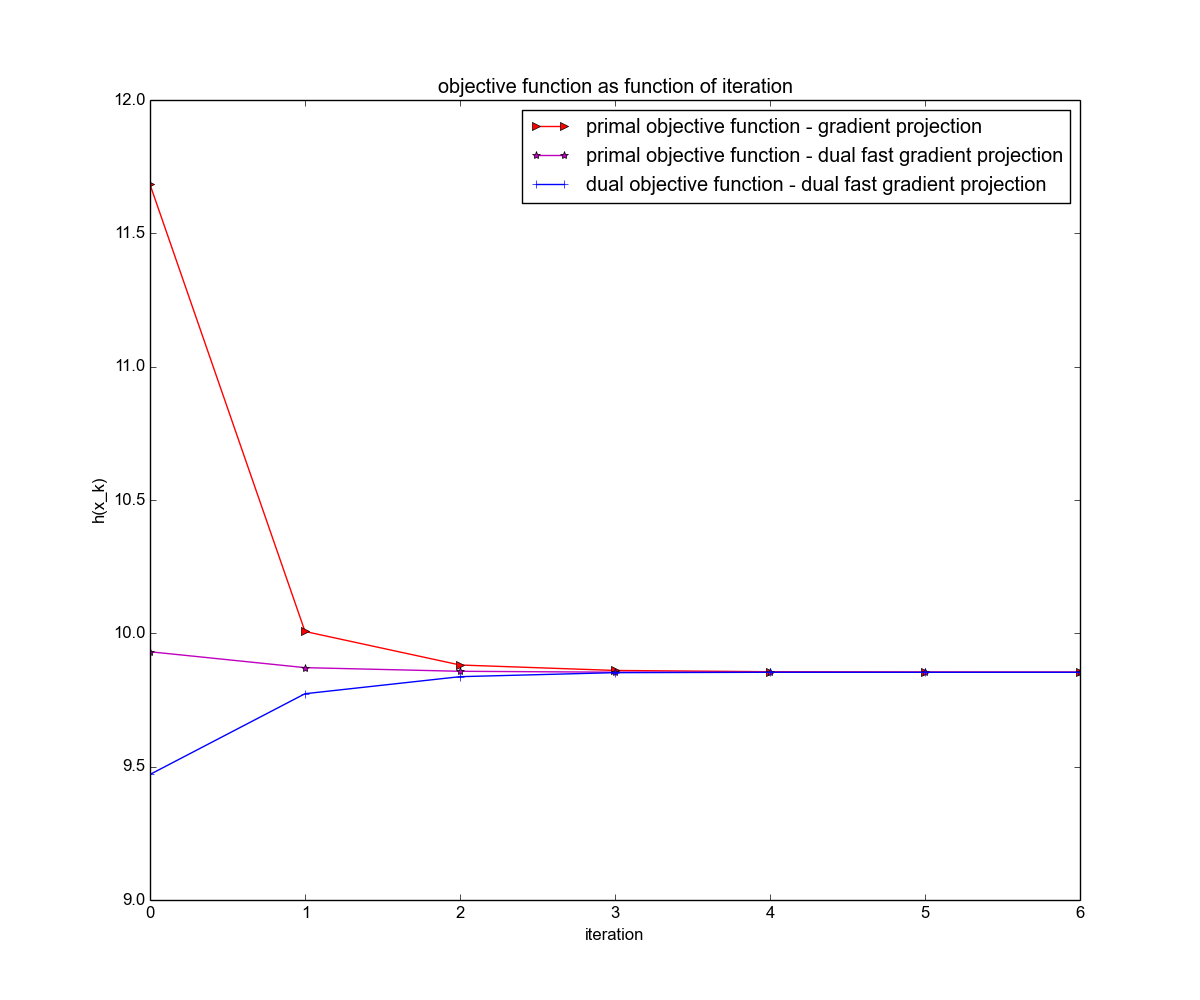
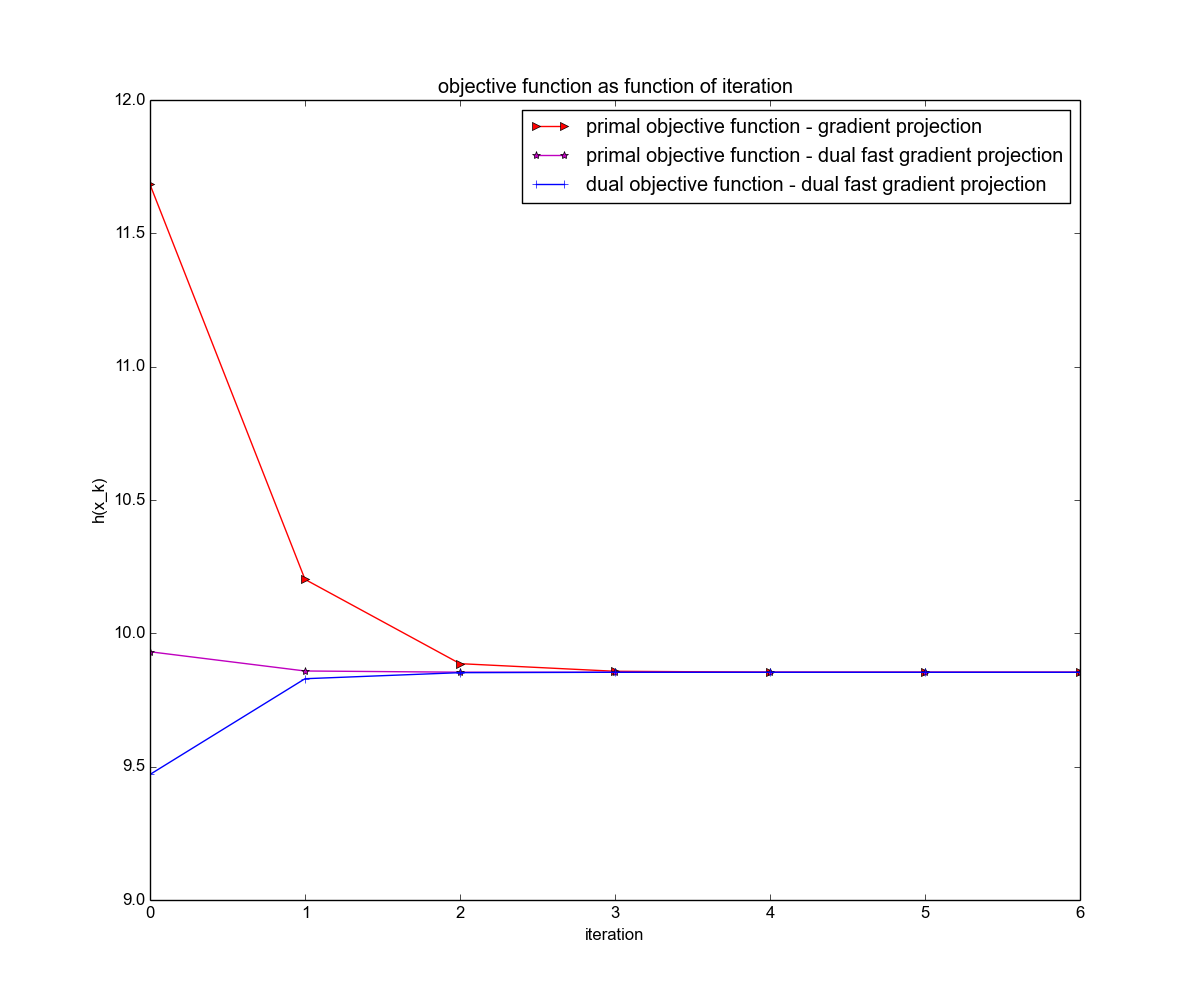
Update LIPCHITZ L.

diff --git a/hw3/q1/compare_methods.py b/hw3/q1/compare_methods.py
@@ -33,7 +33,7 @@ def Q1_comparison():
 
     for i in xrange(1000):
         for (method, eta) in [
-            (gradient_projection_primal, 0.5 / math.sqrt(i + 2)),
+            (gradient_projection_primal, 1 / math.sqrt(i + 2)),
             (fgp_dual, None)
         ]:
             scores_primal[method].append(method.full_solution().score_primal())

diff --git a/hw3/q1/utils/q1_simple_search_state.py b/hw3/q1/utils/q1_simple_search_state.py
@@ -97,7 +97,7 @@ def test_from_to_vec():
 
 
 class DualState(object):
-    LIPSCHITZ_L = 2.
+    LIPSCHITZ_L = 1.
 
     def __init__(self, v):
         assert isinstance(v, np.ndarray)
